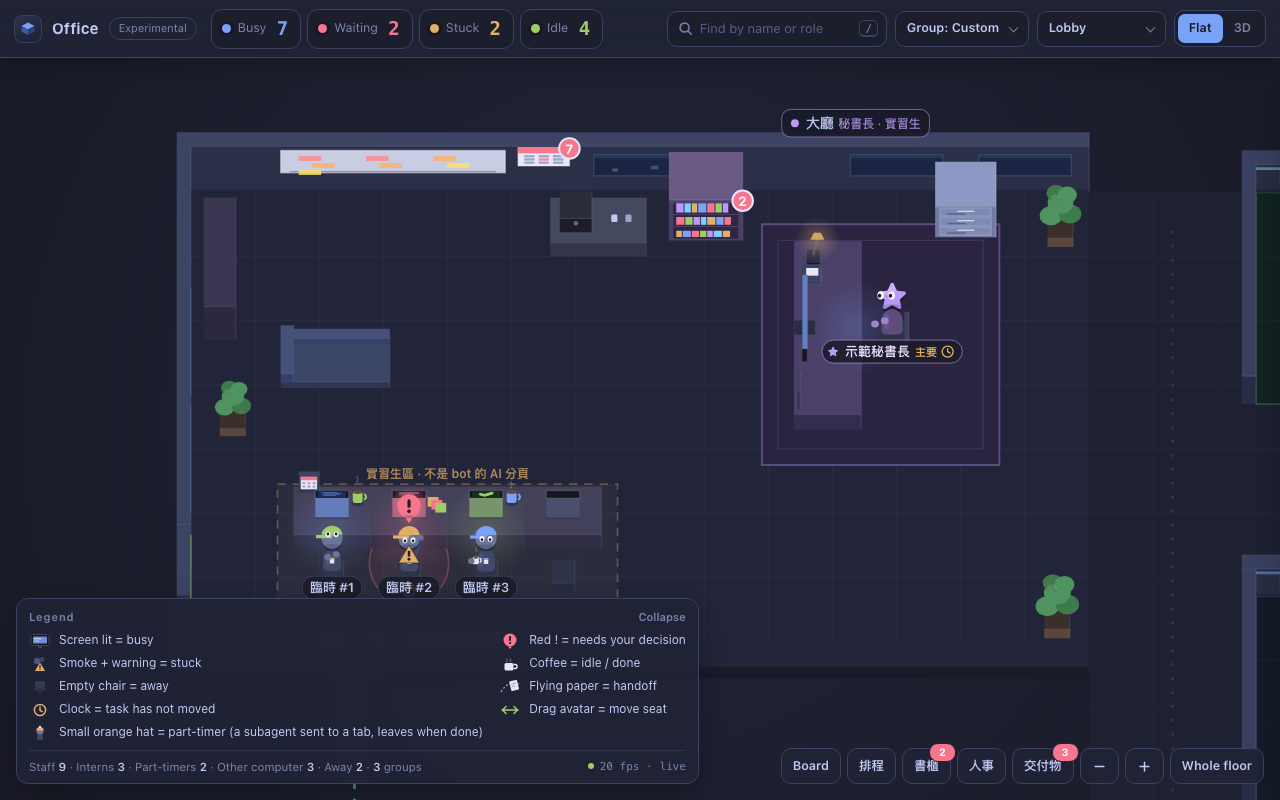
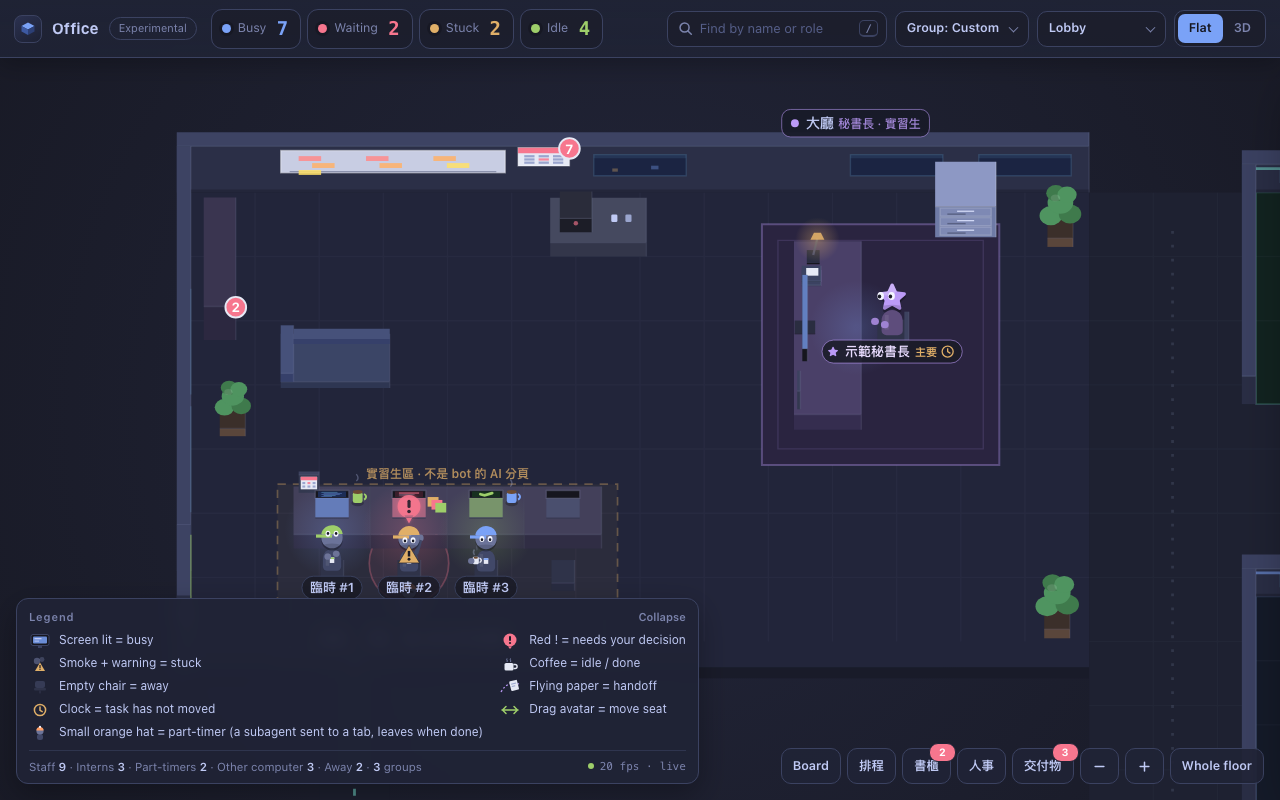
Office: the lobby's own bookshelf is the 書櫃; no second bookshelf
Reviewed: the lobby already had a bookshelf (left wall, by the sofa), and the
bookshelf object stood a second one on the back wall, crowding the secretary's
desk. The office page now names the pieces the room draws itself
(OBJ_FIXTURES); an object of that kind of furniture takes the piece: its red
number, its outline and its click are on it, and nothing new is drawn. Only
the personnel cabinet is placed (OBJ_SLOTS, behind the secretary); the back
wall between the counter and the rug stays open.

The fixtures' badge and outline are drawn right after the room draws the
shelf (a second OfficeObjects.draw pass with given: true), so the shelf does
not paint over its own number.

tests_office_furniture_ui.py: the bookshelf has the room shelf's rectangle and
is the only one, the stretch left of the rug is open, the shelf is a hit target,
and its red number is on the canvas (with a number vs none). Against the old
files the two layout checks fail.

Changed region(s): [[0.5, 0.1875, 0.5938, 0.3125], [0.1562, 0.375, 0.2188, 0.4062], [0.25, 0.6562, 0.2812, 0.6875]]

diff --git a/web/office.html b/web/office.html
@@ -1380,8 +1380,11 @@ function drawDecor(x, d) {
     for (let i = 0; i < 5; i++) { const z = 8 + i * 8.5, on = RM ? 1 : (Math.sin(T * (2 + i * .7) + i) > -.2); poly(x, wq(d.x, d.y + d.h, d.x + d.w, d.y + d.h, .15, .85, z, z + 4.5), '#0f1018'); const lp = P(d.x + .12 + (i % 2) * .08, d.y + d.h, z + 2.2); ellipse(x, lp.x, lp.y, 1.2, 1.2, on ? COL.teal : '#2a3b3a'); }
   }
 }
+// The lobby's bookshelf on the left wall, by the sofa: it is also the 書櫃 object (OBJ fixtures below: its red number,
+// its outline, its click), not a second bookshelf beside it (reviewed: there were two).
+const LOBBY_SHELF = { x: .2, y: .6, w: .5, h: 1.7, kind: 'shelf' };
 function decorOf(r) {
-  if (r.kind === 'lobby') return [{ x: .2, y: .6, w: .5, h: 1.7, kind: 'shelf' }, { x: 5.6, y: .3, w: 1.5, h: .7, kind: 'counter' }, { x: 13.25, y: .35, w: .6, h: .6, kind: 'plant', s: 1.15 }, { x: .35, y: 3.3, w: .6, h: .6, kind: 'plant', s: 1 }, { x: 1.4, y: 2.3, w: 1.7, h: .75, kind: 'sofa' }, { x: 13.2, y: M.LH - .95, w: .6, h: .6, kind: 'plant', s: 1.2 }];
+  if (r.kind === 'lobby') return [LOBBY_SHELF, { x: 5.6, y: .3, w: 1.5, h: .7, kind: 'counter' }, { x: 13.25, y: .35, w: .6, h: .6, kind: 'plant', s: 1.15 }, { x: .35, y: 3.3, w: .6, h: .6, kind: 'plant', s: 1 }, { x: 1.4, y: 2.3, w: 1.7, h: .75, kind: 'sofa' }, { x: 13.2, y: M.LH - .95, w: .6, h: .6, kind: 'plant', s: 1.2 }];
   if (r.kind === 'zone') return [{ x: r.x + r.w - .72, y: r.y + .3, w: .55, h: .55, kind: 'plant', s: .9 }];
   if (r.kind === 'peer') return [{ x: r.x + r.w - .75, y: r.y + .5, w: .55, h: 1.2, kind: 'rack' }];
   return [];
@@ -2023,13 +2026,14 @@ M.board = null; M.notes = []; M.boardVer = 0; M.notesAt = 0; M.boardJson = ''; M
 const WALL_OBJ = { board: { name: '任務看板', q: [1.4, 0, 4.9, 0, 0, 1, 28, 60] }, cal: { name: '排程', q: [5.1, 0, 5.9, 0, 0, 1, 38, 64] } };
 // 牆邊的家具（書櫃、人事檔案櫃…）：每件是一個「辦公室物件」（office_objects.py 的宣告＋四個掛鉤），畫法、蓋板（共用的彈出視窗）在 web/office_objects.js；
 // 這裡只接線：牆上的東西是 'obj:<id>'，點到、或按右下角同名的按鈕，開同一種蓋板。標題字、字樣都由主頁（HOST.objects）給，已是這一頁的語言。
-// Where the lobby's objects may stand on the back wall: clear of the counter (5.6–7.1, under the calendar), of the secretary's
-// rug and desk (8.9–12.6, the lamp at its left), and of the plant in the corner (13.25). One between the counter and the rug,
-// one behind the secretary at the right, like a file cabinet behind a desk (reported: the bookshelf stood inside the counter).
-// tests_office_furniture_ui.py checks every lobby footprint against the others, these included.
-const OBJ_SLOTS = [[7.45, 8.65], [11.6, 12.6]];
+// Where the lobby's objects may stand on the back wall: behind the secretary at the right, like a file cabinet behind a desk,
+// clear of the rug's edge and of the plant in the corner (13.25). The stretch between the counter and the rug stays open
+// (reviewed: a piece there crowded the secretary's desk; before that the bookshelf stood inside the counter).
+// The bookshelf is not placed: it is the room's own (LOBBY_SHELF). tests_office_furniture_ui.py checks every lobby footprint.
+const OBJ_SLOTS = [[11.6, 12.6]];
+const OBJ_FIXTURES = [{ furniture: 'bookshelf', x0: LOBBY_SHELF.x, x1: LOBBY_SHELF.x + LOBBY_SHELF.w, y0: LOBBY_SHELF.y, y1: LOBBY_SHELF.y + LOBBY_SHELF.h, h: 48, on: 'decor:shelf@' + LOBBY_SHELF.x }];
 const OBJ = OfficeObjects.create({
-  tr, doc: document, kick: () => kick(), slots: OBJ_SLOTS,
+  tr, doc: document, kick: () => kick(), slots: OBJ_SLOTS, fixtures: OBJ_FIXTURES,
   host: HOST ? { objects: HOST.objects, md: HOST.md } : OfficeObjects.demoHost(tr),
   beforeOpen() { if (view) closeView(true); if (follow) stopFollow(true); hoverObj = null; hoverKey = null; cv.classList.remove('pt'); },
   hasTab: key => !!(HOST && HOST.chat && HOST.chat.has(key)),
@@ -2876,6 +2880,8 @@ function draw() {
     const r = L.room.r; if (!onScreen(roomScreenBox(r))) continue; roomsDrawn++;
     c.globalAlpha = r.alpha; drawRoomShell(c, r, far); c.globalAlpha = 1;
     if (!far) for (const d of decorOf(r)) L.room.items.push([P(d.x + d.w, d.y + d.h).y, () => drawDecor(c, d)]);
+    if (!far && r.kind === 'lobby') L.room.items.push([P(LOBBY_SHELF.x + LOBBY_SHELF.w, LOBBY_SHELF.y + LOBBY_SHELF.h).y + .01,   // the objects that are the room's own pieces: their number and outline, over the piece
+      () => OBJ.draw(c, { P, poly, box, ellipse, wq, COL, FONT, hover: hoverObj, given: true })]);
     L.room.items.sort((a, b) => a[0] - b[0]); for (const it of L.room.items) it[1]();
   }
   for (const r of rings) { const k = r.t / r.max, p = P(r.x, r.y), e = floorR(.3 + .9 * easeOut(k)); ellipse(c, p.x, p.y, e.rx, e.ry, null, alpha(r.color, (1 - k) * .9), 2.2); }
@@ -3599,9 +3605,10 @@ window.__office = {
   lobbyLayout: () => { const r = M.rooms.get('lobby'); const floor = [];
     for (const d of decorOf(r)) floor.push({ id: 'decor:' + d.kind + '@' + d.x, x0: d.x, x1: d.x + d.w, y0: d.y, y1: d.y + d.h, z0: 0, z1: ({ shelf: 48, counter: 40, sofa: 21, plant: 30, rack: 44 })[d.kind] || 30 });   // drawDecor's heights (the counter's machine on top)
     for (const s of M.seats.values()) if (s.room === 'lobby') floor.push({ id: 'seat:' + s.key, x0: s.lx, x1: s.lx + s.w, y0: s.ly, y1: s.ly + s.h, z0: 0, z1: 20 });
-    for (const f of OBJ.footprints()) floor.push(f);
+    const fp = OBJ.footprints(), fixtures = fp.filter(f => f.given);   // an object that is the room's own piece is not new floor
+    for (const f of fp) if (!f.given) floor.push(f);
     const wall = Object.entries(WALL_OBJ).map(([id, o]) => ({ id, x0: o.q[0], x1: o.q[2], z0: o.q[6], z1: o.q[7] }));
-    return { w: r.w, h: r.h, floor, wall, rug: { x0: 8.9, x1: 12.6, y0: .5, y1: 4.25 } }; },
+    return { w: r.w, h: r.h, floor, fixtures, wall, rug: { x0: 8.9, x1: 12.6, y0: .5, y1: 4.25 } }; },
   pause: on => { DEMO.paused = !!on; kick(); }, follow: key => startFollow(key), unfollow: () => stopFollow(), setMode: (m, i) => setMode(m, i), setArea: (id, i) => setArea(id, i),
   forceIdle: () => { lastInput = performance.now() - IDLE_AFTER - 1; goal = null; }, isActive: () => active(), busy: () => busy(), cam: () => ({ ...cam }), lod: () => lodFar ? 'far' : 'near',
   addBots: n => addBots(n), setTemps: n => { while (DB.temps.length < n) { const k = sim.tempN++; DB.temps.push({ id: 'tmp' + k, name: '臨時 #' + k, cli: '示範 CLI-' + 'ABC'[k % 3], state: 'working', opened_at: iso(clockMs() + k), task: { id: '—', title: TEMP_TASKS[k % 5], status: 'doing', next: '做完就關分頁' }, events: [], _lock: 1e9 }); } while (DB.temps.length > n) DB.temps.pop(); push(); },

diff --git a/web/office_objects.js b/web/office_objects.js
@@ -57,25 +57,38 @@
     // goes into the first stretch with room left, in declaration order; one that fits nowhere gets no furniture (its
     // toolbar button still opens it).
     const SLOTS = Array.isArray(E.slots) && E.slots.length ? E.slots.map(s => [Number(s[0]), Number(s[1])]) : [[WALL_X0, WALL_X1]];
-    function place() {                                      // id → {x0, x1, kind}
-      const out = {}, next = SLOTS.map(s => s[0]);
+    // Furniture the room already has and draws itself (env.fixtures: {furniture, x0, x1, y0, y1, h, on}): an object of that kind
+    // becomes that piece (its badge, its outline, its click) instead of a second one beside it (reviewed: two bookshelves in one
+    // lobby). One object per fixture, first come.
+    const FIXTURES = Array.isArray(E.fixtures) ? E.fixtures : [];
+    function place() {                                      // id → {x0, x1, y0, y1, k, given}
+      const out = {}, next = SLOTS.map(s => s[0]), used = new Set();
       for (const o of objs) {
-        if (o.place === 'button') continue;                      // no furniture: only the toolbar button (the deliverables' desks are on the people's desks)
+        if (o.place === 'button') continue;
+        const f = FIXTURES.findIndex((x, j) => !used.has(j) && x.furniture === o.furniture);
+        if (f < 0) continue;
+        used.add(f);
+        const x = FIXTURES[f];
+        out[o.id] = { x0: x.x0, x1: x.x1, y0: x.y0, y1: x.y1, k: { w: x.x1 - x.x0, d: x.y1 - x.y0, h: x.h }, given: true, on: x.on || '' };
+      }
+      for (const o of objs) {
+        if (o.place === 'button' || out[o.id]) continue;        // no furniture: only the toolbar button (the deliverables' desks are on the people's desks)
         const k = KINDS[o.furniture] || KINDS.generic;
         const i = SLOTS.findIndex((s, j) => next[j] + k.w <= s[1] + 1e-9);
         if (i < 0) continue;
-        out[o.id] = { x0: next[i], x1: next[i] + k.w, k };
+        out[o.id] = { x0: next[i], x1: next[i] + k.w, y0: 0, y1: k.d, k };
         next[i] += k.w + GAP;
       }
       return out;
     }
     // Each piece's floor rectangle against the back wall (y 0 to its depth) and its height: what the office checks for overlaps.
-    const footprints = () => Object.entries(place()).map(([id, p]) => ({ id: 'obj:' + id, x0: p.x0, x1: p.x1, y0: 0, y1: p.k.d, z0: p.k.z0 || 0, z1: (p.k.z0 || 0) + p.k.h }));
+    // A fixture's footprint is the room's own piece (`on` names it), not new floor.
+    const footprints = () => Object.entries(place()).map(([id, p]) => ({ id: 'obj:' + id, x0: p.x0, x1: p.x1, y0: p.y0, y1: p.y1, z0: p.k.z0 || 0, z1: (p.k.z0 || 0) + p.k.h, given: !!p.given, on: p.on || '' }));
     const keys = () => Object.keys(place()).map(id => 'obj:' + id);
     const wall = k => { const o = find(String(k).slice(4)); return o ? { name: o.title, room: 'lobby' } : null; };
     function corners(p) {
       const out = [];
-      for (const x of [p.x0, p.x1]) for (const y of [0, p.k.d]) for (const z of [p.k.z0 || 0, (p.k.z0 || 0) + p.k.h]) out.push([x, y, z]);
+      for (const x of [p.x0, p.x1]) for (const y of [p.y0, p.y1]) for (const z of [p.k.z0 || 0, (p.k.z0 || 0) + p.k.h]) out.push([x, y, z]);
       return out;
     }
     function hull(k, t2s) {
@@ -88,15 +101,17 @@
       g.x.font = `700 ${n > 9 ? 8 : 9.5}px ${g.FONT}`; g.x.fillStyle = '#fff'; g.x.textAlign = 'center'; g.x.textBaseline = 'middle';
       g.x.fillText(n > 9 ? '9+' : String(n), q.x, q.y + .6);
     };
-    // g: {x (ctx), P, poly, box, ellipse, wq, COL, FONT, alpha, hover (key), active (id)}
+    // g: {x (ctx), P, poly, box, ellipse, wq, COL, FONT, alpha, hover (key), active (id), given (the fixtures' pass)}
     function draw(x, g0) {
       const g = Object.assign({ x }, g0), at = place();
       for (const o of objs) {
         const p = at[o.id];
-        if (!p) continue;
+        if (!p || !!p.given !== !!g.given) continue;            // the room's own pieces are drawn after the room draws them (g.given)
         const k = p.k, w = p.x1 - p.x0, z0 = k.z0 || 0;
         const front = (u1, u2, z1, z2) => g.wq(p.x0, k.d, p.x1, k.d, u1, u2, z0 + z1, z0 + z2);
-        if (o.furniture === 'bookshelf') {
+        if (p.given) {
+          // the room draws this piece itself: only its badge and its outline here
+        } else if (o.furniture === 'bookshelf') {
           g.box(x, p.x0, 0, w, k.d, 0, k.h, { t: '#6a5a86', l: '#4b3f66', r: '#3a3052' }, 'rgba(192,202,245,.14)');
           g.poly(x, front(.06, .94, 3, k.h - 4), '#2e2742');
           for (let r = 0; r < 3; r++) {
@@ -124,7 +139,7 @@
           g.box(x, p.x0, 0, w, k.d, 0, k.h, { t: '#8d98c4', l: '#6f7ba6', r: '#566086' }, 'rgba(255,255,255,.18)');
           g.poly(x, front(.2, .8, k.h * .55, k.h * .7), 'rgba(20,24,40,.4)');
         }
-        if (o.badge > 0) badge(g, p.x1, k.d, z0 + k.h - 1, o.badge);
+        if (o.badge > 0) badge(g, p.x1, p.y1, z0 + k.h - 1, o.badge);
         if (g.hover === 'obj:' + o.id || (S && S.id === o.id)) {
           const on = !!(S && S.id === o.id);
           g.poly(x, hullOf(corners(p).map(c => g.P(c[0], c[1], c[2]))), null, on ? g.COL.blue : 'rgba(192,202,245,.7)', on ? 2 : 1.6);

diff --git a/tests_office_furniture_ui.py b/tests_office_furniture_ui.py
@@ -3,13 +3,18 @@
 
 Reported with a screenshot: the bookshelf stood inside the small counter (the one with the black machine) and the personnel
 cabinet was pressed against it, next to the secretary's desk. The objects were laid one after another along the back
-wall from a fixed point, blind to the room's own furniture. Now the office page names the stretches of wall that are free
-(office.html OBJ_SLOTS) and each piece goes into the first one with room. This test reads the lobby's layout
-(__office.lobbyLayout: the room's furniture, the secretary's desk, the interns' tables, the objects; the boards on the
-back wall) and checks, so that the next piece of furniture (the ops TV, …) is held to it too:
-  - no two floor rectangles overlap; an object keeps at least 0.15 from everything else
-  - an object stands against the back wall, inside the room, off the walkways (x≈1.0 along the left, the front strip)
-  - an object does not stand in front of the whiteboard or the calendar
+wall from a fixed point, blind to the room's own furniture. Then reviewed: the lobby already has a bookshelf (the left
+wall, by the sofa), so a second one was one too many, and it crowded the secretary's desk. Now the room's own bookshelf
+IS the 書櫃 (office.html OBJ_FIXTURES: the red number and the click are on it) and only the cabinet is placed, in the
+stretch of back wall the page names as free (OBJ_SLOTS, behind the secretary). This test reads the lobby's layout
+(__office.lobbyLayout: the room's furniture, the secretary's desk, the interns' tables, the placed objects, the objects
+that are the room's pieces; the boards on the back wall) and checks, so that the next piece (the ops TV, …) is held to it too:
+  - no two floor rectangles overlap; a placed object keeps at least 0.15 from everything else
+  - a placed object stands against the back wall, inside the room, off the walkways (x≈1.0 along the left, the front strip)
+  - a placed object does not stand in front of the whiteboard or the calendar
+  - the bookshelf is the room's bookshelf (same rectangle), there is no second one, and the back wall left of the
+    secretary's rug stays open
+  - the bookshelf is a hit target where the room draws it, and its red number is drawn over it (pixels)
   - a third piece that fits nowhere gets no furniture (its toolbar button stays) instead of overlapping
 office.html on its own (demo host), Chromium and WebKit. Screenshots (Chromium): qa-shots/office-lobby-furniture-{flat,iso}-1280.png.
 Run: .venv/bin/python tests_office_furniture_ui.py
@@ -89,6 +94,17 @@ DEMO_OBJS = """(extra) => {
   return __office.objects().objects.map(o => [o.id, o.onWall]);
 }"""
 
+# pixels of the badge's red (#f7768e) in a box around an object's middle, on the canvas as drawn
+RED_NEAR = """(id) => { const b = __office.objPoint(id), cv = document.getElementById('stage'), r = cv.getBoundingClientRect();
+  const k = cv.width / r.width, d = cv.getContext('2d').getImageData(0, 0, cv.width, cv.height).data, sx = b.x - r.left, sy = b.y - r.top;
+  let n = 0;
+  for (let y = Math.max(0, Math.round((sy - 90) * k)); y < Math.min(cv.height, Math.round((sy + 90) * k)); y++)
+    for (let x = Math.max(0, Math.round((sx - 70) * k)); x < Math.min(cv.width, Math.round((sx + 70) * k)); x++) {
+      const i = (y * cv.width + x) * 4; if (Math.abs(d[i] - 247) < 10 && Math.abs(d[i + 1] - 118) < 12 && Math.abs(d[i + 2] - 142) < 12) n++; }
+  return n; }"""
+
+DEMO_OBJS_BADGE0 = DEMO_OBJS.replace("badge: 2,", "badge: 0,", 1)
+
 srv = serve()
 base = f"http://127.0.0.1:{srv.server_port}"
 with sync_playwright() as pw:
@@ -115,9 +131,27 @@ with sync_playwright() as pw:
                 L = page.evaluate("__office.lobbyLayout()")
                 objs = layout_checks(L, "two objects")
                 ids = {o["id"]: o for o in objs}
+                fx = {f["id"]: f for f in L.get("fixtures", [])}
+                shelves = [f for f in L["floor"] if f["id"].startswith("decor:shelf")]
+                sh = shelves[0] if len(shelves) == 1 else None
+                bk = fx.get("obj:bookshelf")
+                check("the bookshelf is the room's own bookshelf (the left wall, by the sofa): same rectangle, and it is the only one",
+                      sh and bk and bk["on"] == sh["id"] and all(abs(bk[k] - sh[k]) < 1e-9 for k in ("x0", "x1", "y0", "y1"))
+                      and "obj:bookshelf" not in ids, (shelves, L.get("fixtures"), ids))
                 ctr = next((f for f in L["floor"] if f["id"].startswith("decor:counter")), None)
-                check("the bookshelf is right of the counter (the reported overlap), the cabinet behind the secretary's desk",
-                      ctr and ids["obj:bookshelf"]["x0"] >= ctr["x1"] + 0.15 and ids["obj:personnel"]["x0"] > L["rug"]["x0"], ids)
+                left = [o["id"] for o in objs if ctr and o["x1"] > ctr["x1"] and o["x0"] < L["rug"]["x0"]]
+                check("the cabinet stands behind the secretary's desk; the back wall between the counter and the rug stays open",
+                      set(ids) == {"obj:personnel"} and ids["obj:personnel"]["x0"] > L["rug"]["x0"] and not left, (ids, left))
+                pt = page.evaluate("__office.objPoint('bookshelf')")
+                check("the room's bookshelf is a hit target: the 書櫃 tooltip over it",
+                      pt and page.evaluate("([x, y]) => __office.wallAt(x, y)", [pt["x"], pt["y"]]) == "obj:bookshelf", pt)
+                n2 = page.evaluate(RED_NEAR, "bookshelf")
+                page.evaluate(DEMO_OBJS_BADGE0, False)
+                page.wait_for_timeout(150)
+                n0 = page.evaluate(RED_NEAR, "bookshelf")
+                page.evaluate(DEMO_OBJS, False)
+                page.wait_for_timeout(150)
+                check("…and its red number is drawn over it (the badge's red is there with a number, gone with none)", n2 - n0 > 25, (n2, n0))
                 if engine == "chromium":
                     SHOTS.mkdir(exist_ok=True)
                     page.evaluate("__office.setArea && __office.setArea('lobby')")

diff --git a/CHANGELOG.md b/CHANGELOG.md
@@ -49,7 +49,8 @@
 ### Added
 
 - **The office's bookshelf and personnel cabinet.**
-  Two pieces of furniture on the lobby wall, also reachable from 「書櫃」 and 「人事」 in the office's tool bar. They open
+  The lobby's bookshelf (the one by the sofa) can now be clicked, and a personnel cabinet stands behind the secretary;
+  both are also reachable from 「書櫃」 and 「人事」 in the office's tool bar. They open
   one shared popup: a list you can search and filter, a preview, and actions.
   - The bookshelf holds each bot's memory, its skills (SKILL.md and the Markdown files it links to) and its session
     summaries. Its red number is how many bots have a memory over 80% full.
@@ -57,21 +58,23 @@
     it owns. External bots and bots on a local model are labelled, and each section lists its own items.
   - Both are read only. 「用編輯器打開」 opens the file, 「請 X 更新」 sends that bot one line, and 「編輯執掌」 opens its
     settings. Anything that looks like a secret is masked before it reaches the page.
-  - They stand against the back wall where nothing else is: the bookshelf between the counter and the secretary's
-    rug, the cabinet behind the secretary. `tests_office_furniture_ui.py` checks that no two pieces of the lobby's
-    furniture share floor or cover the whiteboard or the calendar, for anything added later too.
+  - The bookshelf is the one the lobby already had, not a second one; its red number sits on it. The cabinet stands
+    against the back wall where nothing else is, and the wall between the counter and the secretary's rug stays open.
+    `tests_office_furniture_ui.py` checks that no two pieces of the lobby's furniture share floor or cover the
+    whiteboard or the calendar, for anything added later too.
   Plugins can add their own office objects the same way (`docs/architecture.md` §7). Covered by
   `tests_office_objects.py`, `tests_office_shelf.py` and `tests_office_objects_ui.py`.
 
-  **辦公室的書櫃和人事檔案櫃。** 大廳牆邊多兩件家具，也可以從辦公室工具列的「書櫃」「人事」打開。兩者共用一個彈出視窗：可以搜尋、篩選
+  **辦公室的書櫃和人事檔案櫃。** 大廳沙發旁原本那座書櫃現在可以點，秘書長背後多一座人事檔案櫃；也可以從辦公室工具列的「書櫃」
+  「人事」打開。兩者共用一個彈出視窗：可以搜尋、篩選
   的清單，旁邊是預覽，下面是動作鈕。
   - 書櫃收著每個 bot 的記憶、技能（SKILL.md 和它連到的 Markdown）和對話摘要。紅色數字是記憶超過八成的 bot 數。
   - 人事檔案櫃是每個 bot 一份檔案：執掌、CLI 和模型、醒著或休息、手上任務、負責的排程。外部的和跑地端模型的 bot 會標出來，每一段
     底下直接列它自己的項目。
   - 兩者都只看不改：「用編輯器打開」打開檔案，「請 X 更新」傳一行給那個 bot，「編輯執掌」打開它的設定。看起來像金鑰的字在送到畫面前就
     遮掉。
-  - 兩件都靠後牆、擺在空的地方：書櫃在小桌和秘書長地毯之間，檔案櫃在秘書長背後。`tests_office_furniture_ui.py` 檢查大廳裡任兩件
-    家具不共用地板、不擋住白板和行事曆，之後再加的家具也一樣。
+  - 書櫃就是大廳原本那座，不另外多擺一座，紅色數字掛在它身上。檔案櫃靠後牆擺在空的地方，小桌和秘書長地毯之間的牆面保持空著。
+    `tests_office_furniture_ui.py` 檢查大廳裡任兩件家具不共用地板、不擋住白板和行事曆，之後再加的家具也一樣。
   外掛可以用同一套方式加自己的辦公室物件（`docs/architecture.md` 第 7 節）。由 `tests_office_objects.py`、`tests_office_shelf.py`、
   `tests_office_objects_ui.py` 守著。
 

diff --git a/docs/architecture.md b/docs/architecture.md
@@ -210,5 +210,5 @@ An office object is a piece of furniture in the lobby that opens the shared popu
    - `item(obj_id, item_id)` → `{"title", "subtitle", "markdown", "meta": [[label, value]], "chips": [{text, tone}], "links": [...], "actions": [declared action ids], "action_labels", "image" (a raster `data:` URL the object read for this entry; never masked, never HTML), "refresh" (opening it changed the list), "owner", "owner_key"}`. A link leads to another object (`{object, filters, query, item}`), a wall view (`{view: "board" | "cal", task?}`); a link with `section` is drawn where the markdown has a line `{{links:<section>}}` (under its own heading), the others at the end or a bot's tab (`{follow}`).
    - `action(obj_id, item_id, action_id, args)` → `{"ok", "message"?, "open"?: path, "reveal"?: path, "url"?: link, "refresh"?: true, "confirm"?: {text, label, args}, "tell"?: {"to": "b:<role>", "text": one line, "after"?: {action, args}}, "go"?: {...}}`. An action declared with `input` asks the person for one line first (`args.text`); `confirm` makes the popup ask yes/no and call the action again with `args`; `refresh` makes it read the list again; `tell.after` is called once the line went in. `open` / `reveal` (file manager) / `url` (browser) are done by the app's own openers and never reach the page; `tell` is sent by the page into that bot's tab through the chat view's send (one line, the person's unsent draft untouched); `go` is a link, or `{"settings": role}` for the bot editor.
 3. **Rules the host enforces, and the object keeps**: `item_id` is page input: look it up in your own listing, never join it into a path; read a file only in `item`, not in `summary`; never list files you do not mean to show (a skill's scripts); every text is masked and capped by the host, but not reading a secret is the first defence; a hook that raises or takes more than 3 s makes only its own call fail ("this object is not available right now").
-4. **Register it**: a built-in goes in `api_office_objects.builtin_objects()`; a plugin only needs its manifest and an enabled `config.plugins` entry (its hooks are called only while it is enabled and the office is open). A new kind of furniture is one more entry in `KINDS` and one draw branch in `office_objects.js`.
+4. **Register it**: a built-in goes in `api_office_objects.builtin_objects()`; a plugin only needs its manifest and an enabled `config.plugins` entry (its hooks are called only while it is enabled and the office is open). A new kind of furniture is one more entry in `KINDS` and one draw branch in `office_objects.js`. Where `lobby:wall` furniture stands is the office page's: the free stretches of back wall (`OBJ_SLOTS`), and the pieces the room already draws (`OBJ_FIXTURES`: the lobby's bookshelf is the 書櫃, so a `bookshelf` object takes it instead of standing a second one beside it). `tests_office_furniture_ui.py` checks that no two lobby pieces share floor.
 5. **Test it**: unit-test the hooks with `office_objects.Ctx(lang, roster=lambda: …)` over a temp folder (`tests_office_shelf.py`), and the popup against the real backend as `tests_office_objects_ui.py` does (`expose_function` into the mixin).
